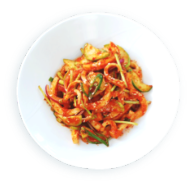
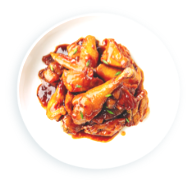
Cargando de un arreglo los titulos de las recetas

Changed region(s): [[0.0785, 0.1351, 0.8115, 0.8108]]

diff --git a/src/components/ContainerCards/ContainerCards.scss b/src/components/ContainerCards/ContainerCards.scss
@@ -1,10 +1,10 @@
 .container-cards {
-    display: flex;
-    flex-direction: row;
-    flex-wrap: nowrap;
-    justify-content: space-around;
+  display: flex;
+  flex-direction: row;
+  flex-wrap: nowrap;
+  justify-content: space-around;
   .card {
-      position: relative;
+    position: relative;
     width: 266px;
     height: 323px;
     opacity: 1;
@@ -42,13 +42,38 @@
       border-radius: 16px;
       opacity: 1;
       z-index: 1;
-    }
-    &:hover{
-        
-        .card-body{
-            height: 332px;
-        
+
+      .empty-space-sup{
+        height: 90px;
+      }
+
+      .card-names {
+        display: flex;
+    flex-direction: row;
+    justify-content: center;
+    align-items: center;
+        .title {
+          width: 119px;
+          height: 40px;
+          text-align: center;
+          font: normal normal normal 30px/40px Poppins;
+          letter-spacing: -0.6px;
+          color: #d84a4a;
         }
+        .subtitle {
+          width: 81px;
+          height: 40px;
+          text-align: center;
+          font: normal normal normal 30px/40px Monster Clubhouse;
+          letter-spacing: -0.6px;
+          color: #d84a4a;
+        }
+      }
+    }
+    &:hover {
+      .card-body {
+        height: 332px;
+      }
     }
   }
 }

diff --git a/src/components/ContainerCards/ContainerCards.tsx b/src/components/ContainerCards/ContainerCards.tsx
@@ -4,17 +4,41 @@ import { Card } from "./Card";
 import './ContainerCards.scss';
 
 
-export const ContainerCards: FC = (): ReactElement | null => {
-  return (
-      <div className="container-cards">
-          <Card img={'Ojingeo-muchim.png'} title ={'Ojinjeo'} subtitle ={'Muchim'} />
-          <Card img={'Ojingeo-muchim.png'} title ={'Ojinjeo'} subtitle ={'Muchim'} />
-          <Card img={'Ojingeo-muchim.png'} title ={'Ojinjeo'} subtitle ={'Muchim'} />
-          <Card img={'Ojingeo-muchim.png'} title ={'Ojinjeo'} subtitle ={'Muchim'} />
-          
+const recipes = [
+  {
+    img: 'Ojingeo-muchim-5.png',
+    title: 'Ojinjeo',
+    subtitle: 'Muchim'
+  },
+  {
+    img: 'Ojingeo-muchim.png',
+    title: 'Cola',
+    subtitle: 'Chicken'
+  },
+  {
+    img: 'Ojingeo-muchim-1.png',
+    title: 'Roasted',
+    subtitle: 'Carrot'
+  },
+  {
+    img: 'cherry.png',
+    title: 'Sweet',
+    subtitle: 'Cherries'
+  }
 
-      </div>
-    
+];
+
+export const ContainerCards: FC = (): ReactElement | null => {
+
+
+  return (
+    <div className="container-cards">
+
+      {recipes.map(item => {
+        return <Card img={item.img} title={item.title} subtitle={item.subtitle} />
+      })}
+    </div>
+
   );
 };
 

diff --git a/src/components/ContainerCards/Card.tsx b/src/components/ContainerCards/Card.tsx
@@ -8,9 +8,15 @@ export const Card: FC<cardT> = ({img, title, subtitle }): ReactElement | null =>
   return (
       <div className="card">
           <div className="card-header">
-              <div className = "header-image" style={{ backgroundImage: "url('../../img/Ojingeo-muchim.png')"}}></div>
+              <div className = "header-image" style={{ backgroundImage: 'url(../../img/'+img+')'}}></div>
           </div>
-          <div className="card-body"></div>
+          <div className="card-body">
+              <div className="empty-space-sup"></div>
+              <div className="card-names">
+                  <span className="title">{title}</span>
+                  <span className="subtitle">{subtitle}</span>
+              </div>
+          </div>
 
           
 
